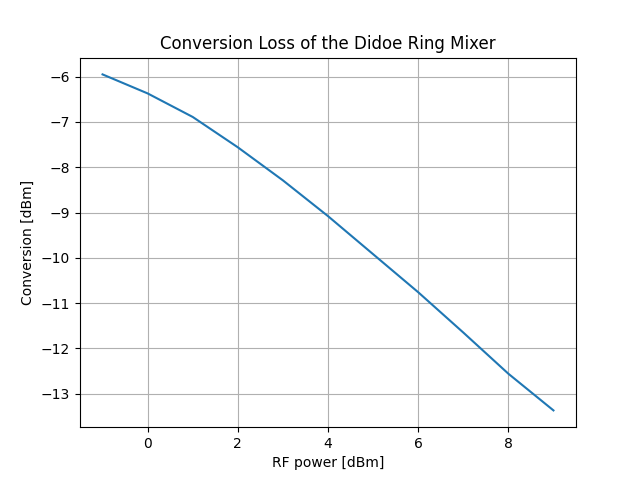
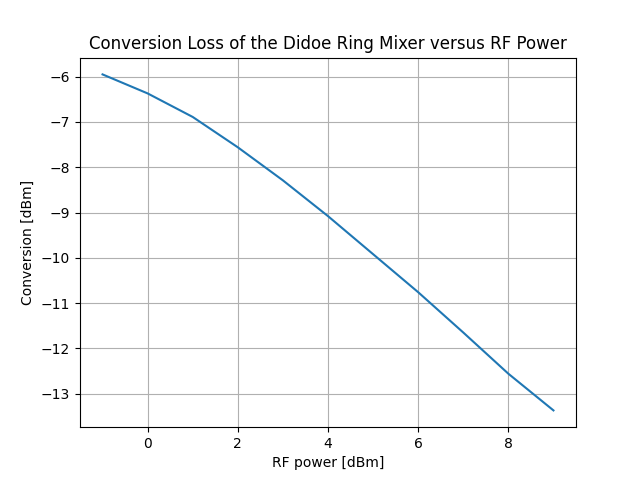
discussion

Changed region(s): [[0.125, 0.0625, 0.875, 0.125]]

diff --git a/Lab_3/graphs.py b/Lab_3/graphs.py
@@ -4,15 +4,16 @@ import matplotlib.pyplot as plt
 RFpower = np.arange(-1, 10)
 RealIFpower = np.array([-6.95,-6.37,-5.89,-5.56,-5.29,-5.08,-4.92,-4.76,-4.65,-4.56,-4.37])
 conversion = RealIFpower - RFpower
-IdealIFpower = RFpower + conversion[0]
+IdealIFpower = RFpower + conversion[1]
 p1dbindx = np.argmin(np.abs(IdealIFpower - RealIFpower - 1))
+interpP1db = np.interp(x, RFpower, np.abs(IdealIFpower - RealIFpower - 1))
 print(f'p1dbindx: {p1dbindx}. RealIFpower[p1dbindx] = {RealIFpower[p1dbindx]}. IdealIFpower[p1dbindx] = {IdealIFpower[p1dbindx]}')
 plt.figure(1)
 plt.plot(RFpower, conversion)
 plt.grid()
 plt.xlabel('RF power [dBm]')
 plt.ylabel('Conversion [dBm]')
-plt.title('Conversion Loss of the Didoe Ring Mixer')
+plt.title('Conversion Loss of the Didoe Ring Mixer versus RF Power')
 plt.savefig('images/conversion.png')
 plt.show()
 fig2 = plt.figure(2)

diff --git a/Lab_3/lab3writeup.md b/Lab_3/lab3writeup.md
@@ -63,10 +63,10 @@ To study the 1 dBm compression point and conversion gain/loss, the IF power was 
 
 Figure MR.1 reveals that the diode ring mixer reaches its 1 dBm compression point just under 2 dBm of RF power. The "ideal" IF curve was computed according to <code>IdealIFpower = RFpower + conversion[1]</code> where <code>conversion[1]</code> is the conversion loss of a 0 dBm RF signal. The code which made these charts is in <code>graphs.py</code> of this folder.
 
-Figure MR.2 reveals that the conversion loss of the mixer is not constant across RF powers. The chart suggests that the diode ring mixer has a maximum amount of power it can output. This result is derived from the fact that as RF power increases, the conversion loss grows larger. By the formula for conversion gain (<code>convesrion = (IF power)[dBm] - (RF power)[dBm].</code>), the data suggests that the output IF power delivered to the spectrum analyzer is constant beyond some point. More investigation is needed to understand the true source of the conversion loss.
+Figure MR.2 reveals that the conversion loss of the mixer is not constant across RF powers. The chart suggests that the diode ring mixer has a maximum amount of power it can output. This result is derived from the fact that as RF power increases, the conversion loss grows larger. By the formula for conversion gain (<code>conversion = (IF power)[dBm] - (RF power)[dBm].</code>), the data suggests that the output IF power delivered to the spectrum analyzer is constant beyond some point. More investigation is needed to understand the true source of the conversion loss.
 <figure>
 <img src="images/conversion.png">
-<figcaption>Figure MR.2 - Computed conversion loss as a function of different RF powers. The conversion loss is around 6 dBm for RF powers below 1 mW. The convesrion loss is in dBm computed according to <code>convesrion = (IF power)[dBm] - (RF power)[dBm].</code></figcaption>
+<figcaption>Figure MR.2 - Computed conversion loss as a function of different RF powers. The conversion loss is around 6 dBm for RF powers below 1 mW. The conversion loss is in dBm computed according to <code>conversion = (IF power)[dBm] - (RF power)[dBm].</code></figcaption>
 </figure>
 
 The conversion loss of the passive diode-ring mixer at low RF powers is around -6 dB. This number is about what is expected according to the following <a href="https://www.qsl.net/va3iul/RF%20Mixers/RF_Mixers.pdf"> publication</a>.
@@ -106,17 +106,33 @@ The following table summarizes the disappearnce of the IF as the RF frequency wa
 |RF Frequency [MHz]|Downconverted IF Power [dBm]|
 |------------|----------------------|
 |29.85| -6|
+|29.90| -8|
+|29.95| -13|
+|29.97| -17.54|
+|29.99| -30|
+<p align = "left">Table 1 - Measured (downconverted) IF power as a function of RF Frequency. LO frequency was fixed at 30 MHz. </p>
 
+Whether or not -30 dBm is discernable or not in a larger system depends on the rest of the system. When the IF was set to be 0 Hz (DC) the signal disappeared into the existing spur at DC.
 
 ## Discussion
 todo
 
-- We talked about the 1dB compression point. Why is this an important performance metric? Can we change it? If so, how might we do that?
-- There was some discussion about LO leakage. Why is that important and what can be done about that?
-- Did you use your mixer as an up converter? As a down converter? If you didn't try both of these, why not?
-- Did you measure the conversion gain vs LO drive level. I guess you must have if you determined the 1dB compression point. How did you make those measurements? Was this at a single frequency? If so was there anything special about the frequency you chose? If you did the measurements at different frequencies, did you find about the same result?
-- There were a number of questions about why one would be concerned about the minimum IF frequency. Greig pointed out that the diode ring mixer should "go to DC" but that the FET ring wouldn't. Why might that be something one would be concerned about? What about the Gilbert cell mixer; should that "go to DC"? Does all this have anything to do with zero IF SDR's or radar stuff?
-- In the mixer you built, why wouldn't the mixer go to zero IF? What could be done if you want it to go to zero IF?
+The mixer functions as expected, but more background reading of the prior art is needed to place the mixer's performance in the context of commercially available devices. Nevertheless, here we discuss various questions that came up during the lab.
+
+The 1dB compression point was an important metric to find because it describes when the device is exiting its linear operation. Ideally the IF output is linearly proportional to the RF input. As we saw in Figure MR.1, there is a limit to the linearity with the diode-ring mixer. The 1 dB compression point appears to be a property inherent to either the topology of the mixer *or* the choice of devices for the circuit. For the diode-ring topology, there does not appear to be much room to improve the 1 dB compression, other than using more expensive (better) parts.
+
+Local oscillator leakage was another quality of the mixer that stood out. Itself is a spur and can "crowd" the spectrum and potentially "bleed" into frequency ranges of use. One technique to reducing the LO leakage is to filter it out. The ease of filtering out the LO leakage most likely depends on the LO leakage's separation from IF frequencies, since very steep analog filters are difficult to build.
+
+The mixer was only used as a down converter. At the time of doing the lab, the author forgot that mixers could both up and down convert. He was reading a bullet point list of things to do in the lab and forgot to recall the lecture slide which originally presented Figure B.1.
+
+Because the conversion gain is defined as <code>conversion = (IF power)[dBm] - (RF power)[dBm], </code> (see this <a href="https://www.qsl.net/va3iul/RF%20Mixers/RF_Mixers.pdf"> document for more information</a>) only the input power was swept. In other words, the author did not investigate conversion gain versus LO drive level. Because the diode-ring mixer uses passive devices, the author did not think characterizing conversion gain versus LO drive level would yield an insightful result. We expect the conversion gain/loss to follow the same trend across all usable LO drive levels -- what we expect to be different is the value of conversion gain/loss at each measured point. In other words, the conversion gain/loss curve would shift vertically when the LO drive level is modulated.
+
+The conversion gain was measured only at only one LO frequency and one RF frequency. For a more thorough characterization of the mixer, the conversion gain should be measured across different LO and RF frequencies. Time was the limiting factor for collecting this data. 
+
+The ability for a mixer to operate with low IF can be valuable if the application desired the ability to avoid noise. The ability to answer why the built mixer cannot go to zero IF is beyond the author's current understanding of mixers. The common hypothesis is "parasitics".
+
+As was discussed during lecture and lab time, the diode-ring mixer should go to DC. There are two other common variants of the mixer: FET-ring and Gilbert cell. The FET ring version of a switching mixer should not be able to go to DC because it would require the balunced to unbalenced transformer on the IF side to operate in DC. The Gilbert cell mixer should be able to go to DC because an IF at DC for this circuit topology implies one branch is on and the other is off. For transistors, this method of operation is valid. The ability for a mixer to go to DC is determined by the circuit topology.
+
 ## Conclusions
 
 todo
